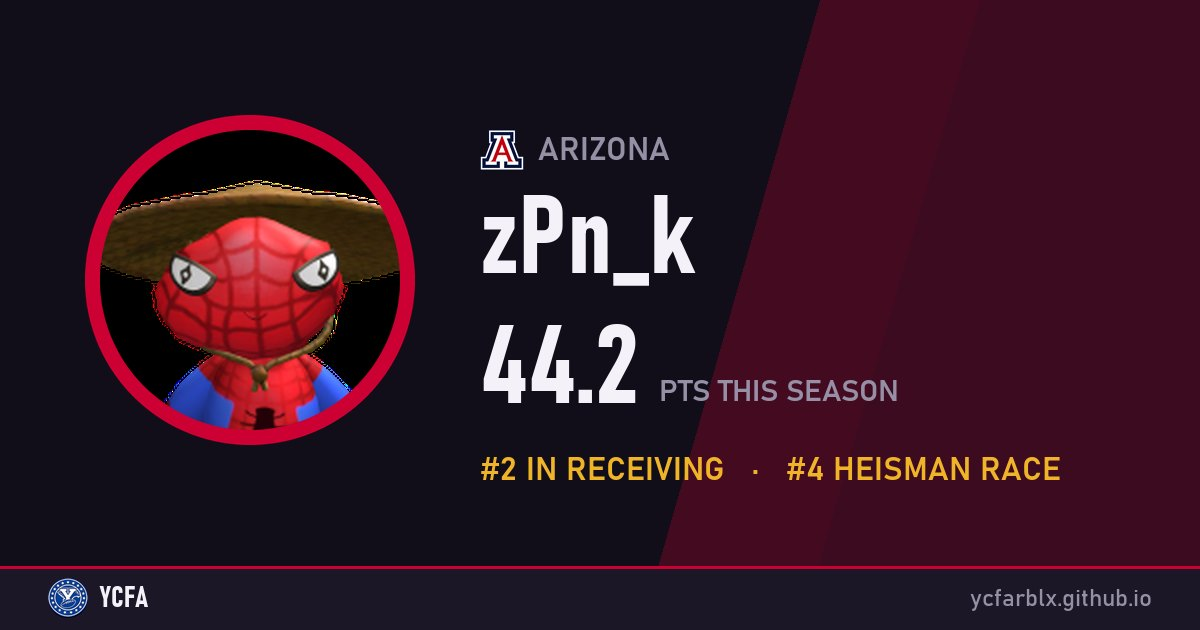
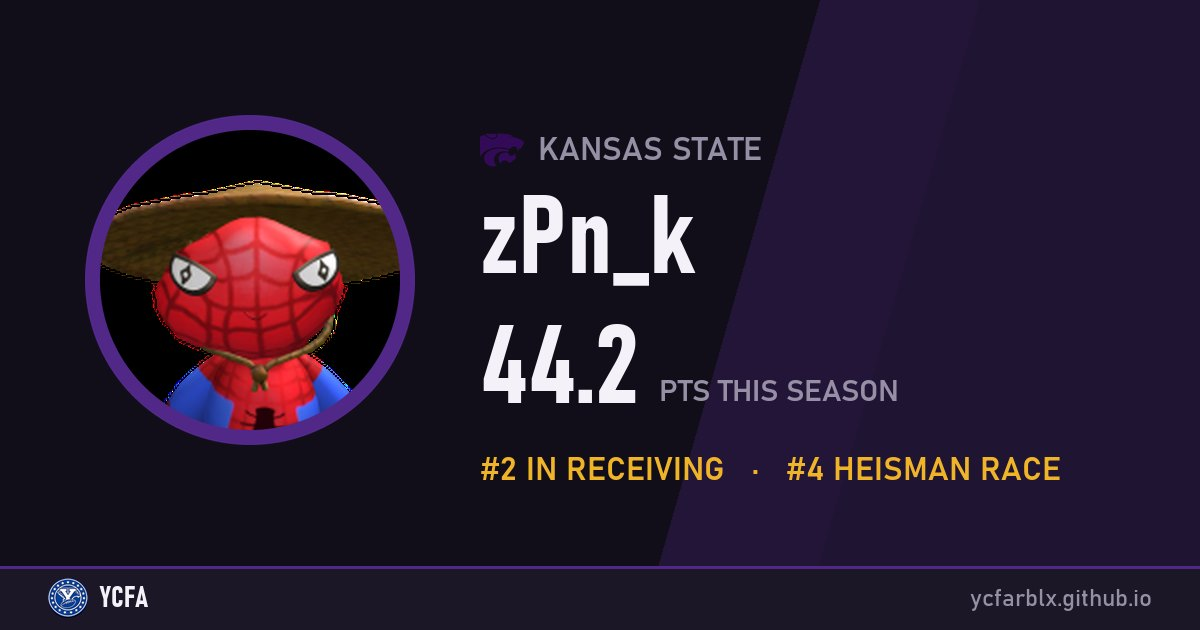
Stats update 2026-11-25 20:42

diff --git a/player/zpn_k/index.html b/player/zpn_k/index.html
@@ -5,20 +5,20 @@
   <meta name="viewport" content="width=device-width, initial-scale=1, viewport-fit=cover">
   <!--meta:start-->
   <title>zPn_k · YCFA</title>
-  <meta name="description" content="DB / DL / WR · Arizona · 44.2 PTS in season 1 · #2 In Receiving   ·   #4 Heisman Race. Stats, game log and career highs.">
-  <meta name="theme-color" content="#cc0033">
+  <meta name="description" content="DB / DL / WR · Kansas State · 44.2 PTS in season 1 · #2 In Receiving   ·   #4 Heisman Race. Stats, game log and career highs.">
+  <meta name="theme-color" content="#512888">
   <meta property="og:site_name" content="YCFA">
   <meta property="og:type" content="website">
   <meta property="og:title" content="zPn_k · YCFA">
-  <meta property="og:description" content="DB / DL / WR · Arizona · 44.2 PTS in season 1 · #2 In Receiving   ·   #4 Heisman Race. Stats, game log and career highs.">
+  <meta property="og:description" content="DB / DL / WR · Kansas State · 44.2 PTS in season 1 · #2 In Receiving   ·   #4 Heisman Race. Stats, game log and career highs.">
   <meta property="og:url" content="https://ycfarblx.github.io/player/zpn_k">
-  <meta property="og:image" content="https://ycfarblx.github.io/og/player-zpn_k.jpg?v=760f1dc137">
+  <meta property="og:image" content="https://ycfarblx.github.io/og/player-zpn_k.jpg?v=6bb3d35408">
   <meta property="og:image:width" content="1200">
   <meta property="og:image:height" content="630">
   <meta name="twitter:card" content="summary_large_image">
   <meta name="twitter:title" content="zPn_k · YCFA">
-  <meta name="twitter:description" content="DB / DL / WR · Arizona · 44.2 PTS in season 1 · #2 In Receiving   ·   #4 Heisman Race. Stats, game log and career highs.">
-  <meta name="twitter:image" content="https://ycfarblx.github.io/og/player-zpn_k.jpg?v=760f1dc137">
+  <meta name="twitter:description" content="DB / DL / WR · Kansas State · 44.2 PTS in season 1 · #2 In Receiving   ·   #4 Heisman Race. Stats, game log and career highs.">
+  <meta name="twitter:image" content="https://ycfarblx.github.io/og/player-zpn_k.jpg?v=6bb3d35408">
   <!--meta:end-->
   <link rel="icon" href="/img/favicon.png">
   <link rel="apple-touch-icon" href="/img/apple-touch-icon.png">

diff --git a/game/3/index.html b/game/3/index.html
@@ -12,13 +12,13 @@
   <meta property="og:title" content="Kansas State 21, Houston 0 · Final · YCFA">
   <meta property="og:description" content="Houston forfeited. Kansas State gets the forfeit win (FFW), Houston the forfeit loss (FFL).">
   <meta property="og:url" content="https://ycfarblx.github.io/game/3">
-  <meta property="og:image" content="https://ycfarblx.github.io/og/game-3.jpg?v=157745b7cb">
+  <meta property="og:image" content="https://ycfarblx.github.io/og/game-3.jpg?v=695dfbbb46">
   <meta property="og:image:width" content="1200">
   <meta property="og:image:height" content="630">
   <meta name="twitter:card" content="summary_large_image">
   <meta name="twitter:title" content="Kansas State 21, Houston 0 · Final · YCFA">
   <meta name="twitter:description" content="Houston forfeited. Kansas State gets the forfeit win (FFW), Houston the forfeit loss (FFL).">
-  <meta name="twitter:image" content="https://ycfarblx.github.io/og/game-3.jpg?v=157745b7cb">
+  <meta name="twitter:image" content="https://ycfarblx.github.io/og/game-3.jpg?v=695dfbbb46">
   <!--meta:end-->
   <link rel="icon" href="/img/favicon.png">
   <link rel="apple-touch-icon" href="/img/apple-touch-icon.png">
